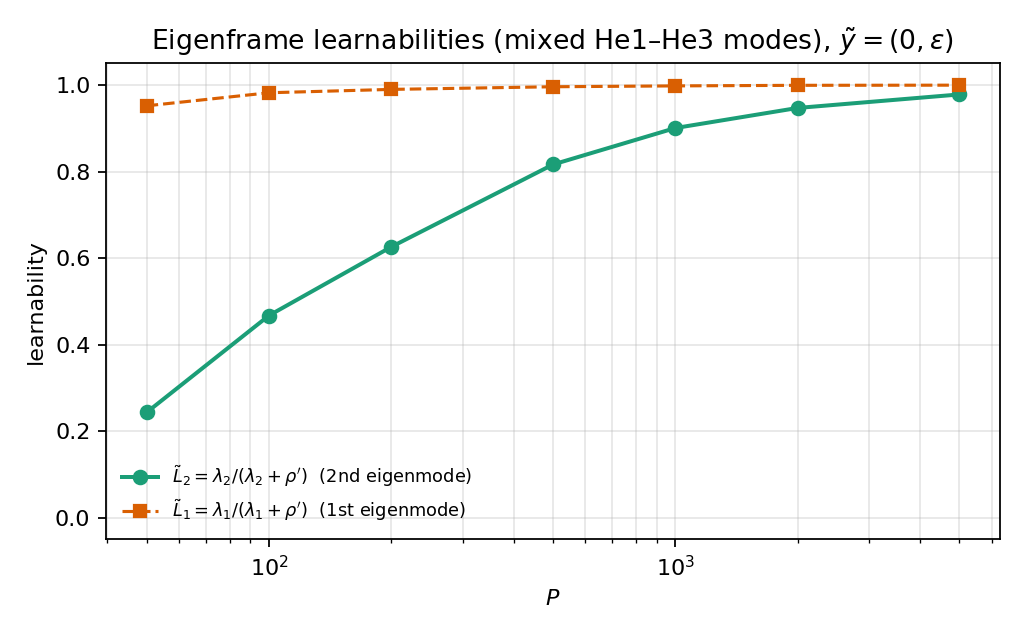
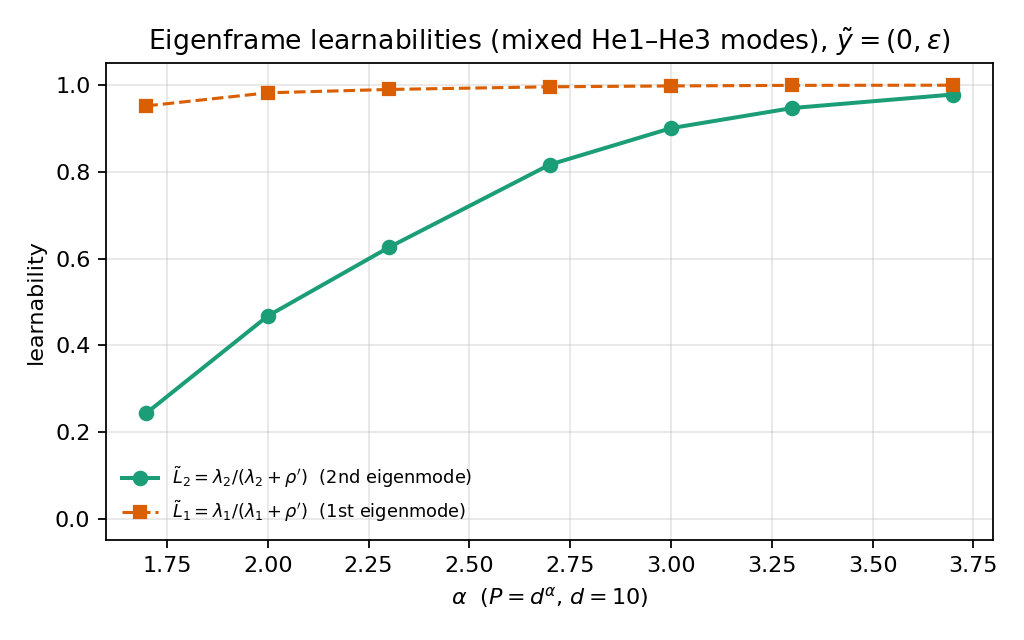
Plot eigenframe learnability vs alpha with P = d^alpha
Replace log-P x-axis by alpha = log(P)/log(d).

diff --git a/milestones/fcn2_erf_hidden_kernel/plot_eigenframe_learnability.py b/milestones/fcn2_erf_hidden_kernel/plot_eigenframe_learnability.py
@@ -1,5 +1,5 @@
 #!/usr/bin/env python3
-"""Plot eigenframe mode learnabilities L̃_k = λ_k / (λ_k + ρ')."""
+"""Plot eigenframe mode learnabilities L̃_k = λ_k / (λ_k + ρ') vs α with P = d^α."""
 from pathlib import Path
 import argparse
 import numpy as np
@@ -9,6 +9,7 @@ def main():
     ap = argparse.ArgumentParser()
     ap.add_argument("--summary", required=True)
     ap.add_argument("--out", required=True)
+    ap.add_argument("--d", type=float, default=10.0, help="input dim for α = log(P)/log(d)")
     args = ap.parse_args()
 
     rows = np.genfromtxt(args.summary, delimiter=",", names=True, dtype=None, encoding=None)
@@ -22,32 +23,32 @@ def main():
     if "L3" in rows.dtype.names:
         L2 = np.asarray(rows["L3"], dtype=float)
 
-    order = np.argsort(P)
-    P, L1, L2, λ1, λ2, ρp = (a[order] for a in (P, L1, L2, λ1, λ2, ρp))
+    alpha = np.log(P) / np.log(args.d)
+    order = np.argsort(alpha)
+    alpha, P, L1, L2, λ1, λ2, ρp = (a[order] for a in (alpha, P, L1, L2, λ1, λ2, ρp))
 
     fig, ax = plt.subplots(figsize=(6.4, 4.0))
-    ax.plot(P, L2, "o-", color="#1b9e77", lw=1.8, ms=6,
+    ax.plot(alpha, L2, "o-", color="#1b9e77", lw=1.8, ms=6,
             label=r"$\tilde L_2=\lambda_2/(\lambda_2+\rho')$  (2nd eigenmode)")
-    ax.plot(P, L1, "s--", color="#d95f02", lw=1.4, ms=5,
+    ax.plot(alpha, L1, "s--", color="#d95f02", lw=1.4, ms=5,
             label=r"$\tilde L_1=\lambda_1/(\lambda_1+\rho')$  (1st eigenmode)")
-    ax.set_xscale("log")
     ax.set_ylim(-0.05, 1.05)
-    ax.set_xlabel(r"$P$")
+    ax.set_xlabel(rf"$\alpha$  ($P=d^{{\alpha}}$, $d={args.d:g}$)")
     ax.set_ylabel("learnability")
     ax.set_title(r"Eigenframe learnabilities (mixed He1–He3 modes), $\tilde y=(0,\varepsilon)$")
-    ax.grid(True, which="both", alpha=0.3)
+    ax.grid(True, alpha=0.3)
     ax.legend(frameon=False, fontsize=8)
     fig.tight_layout()
     Path(args.out).parent.mkdir(parents=True, exist_ok=True)
     fig.savefig(args.out, dpi=160)
     print("saved", args.out)
 
-    # also write a clean learnability CSV
     out_csv = Path(args.out).with_suffix(".csv")
     with open(out_csv, "w") as f:
-        f.write("P,rho_p,lam1,lam2,Ltilde1,Ltilde2\n")
+        f.write("alpha,P,d,rho_p,lam1,lam2,Ltilde1,Ltilde2\n")
         for i in range(len(P)):
-            f.write(f"{P[i]:.10g},{ρp[i]:.10g},{λ1[i]:.10g},{λ2[i]:.10g},{L1[i]:.10g},{L2[i]:.10g}\n")
+            f.write(f"{alpha[i]:.10g},{P[i]:.10g},{args.d:g},{ρp[i]:.10g},"
+                    f"{λ1[i]:.10g},{λ2[i]:.10g},{L1[i]:.10g},{L2[i]:.10g}\n")
     print("saved", out_csv)
 
 if __name__ == "__main__":
